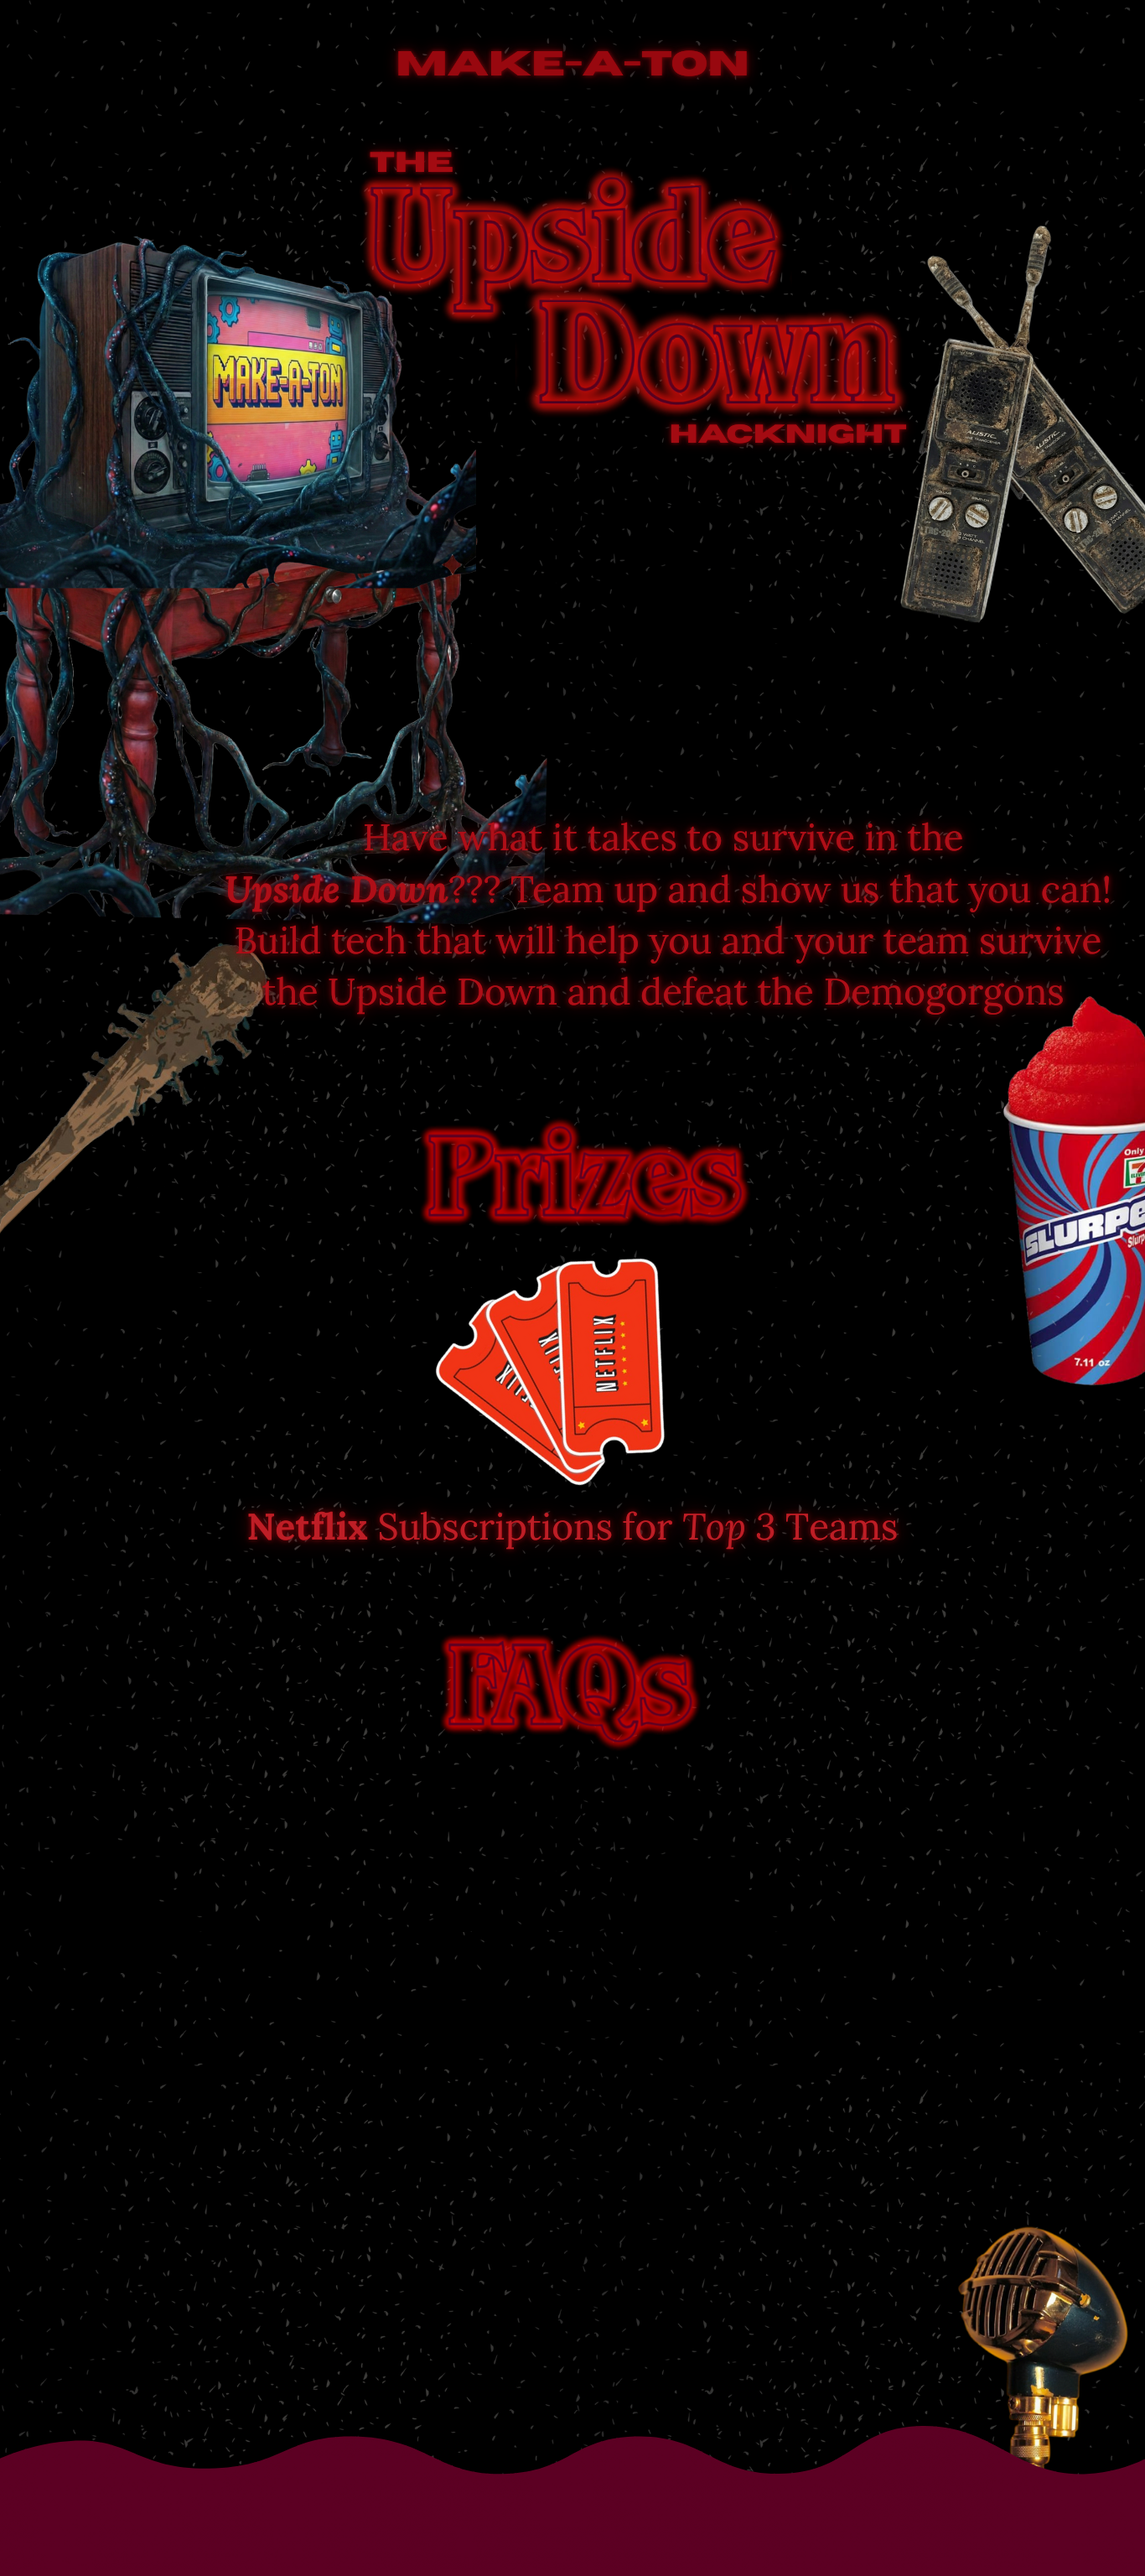
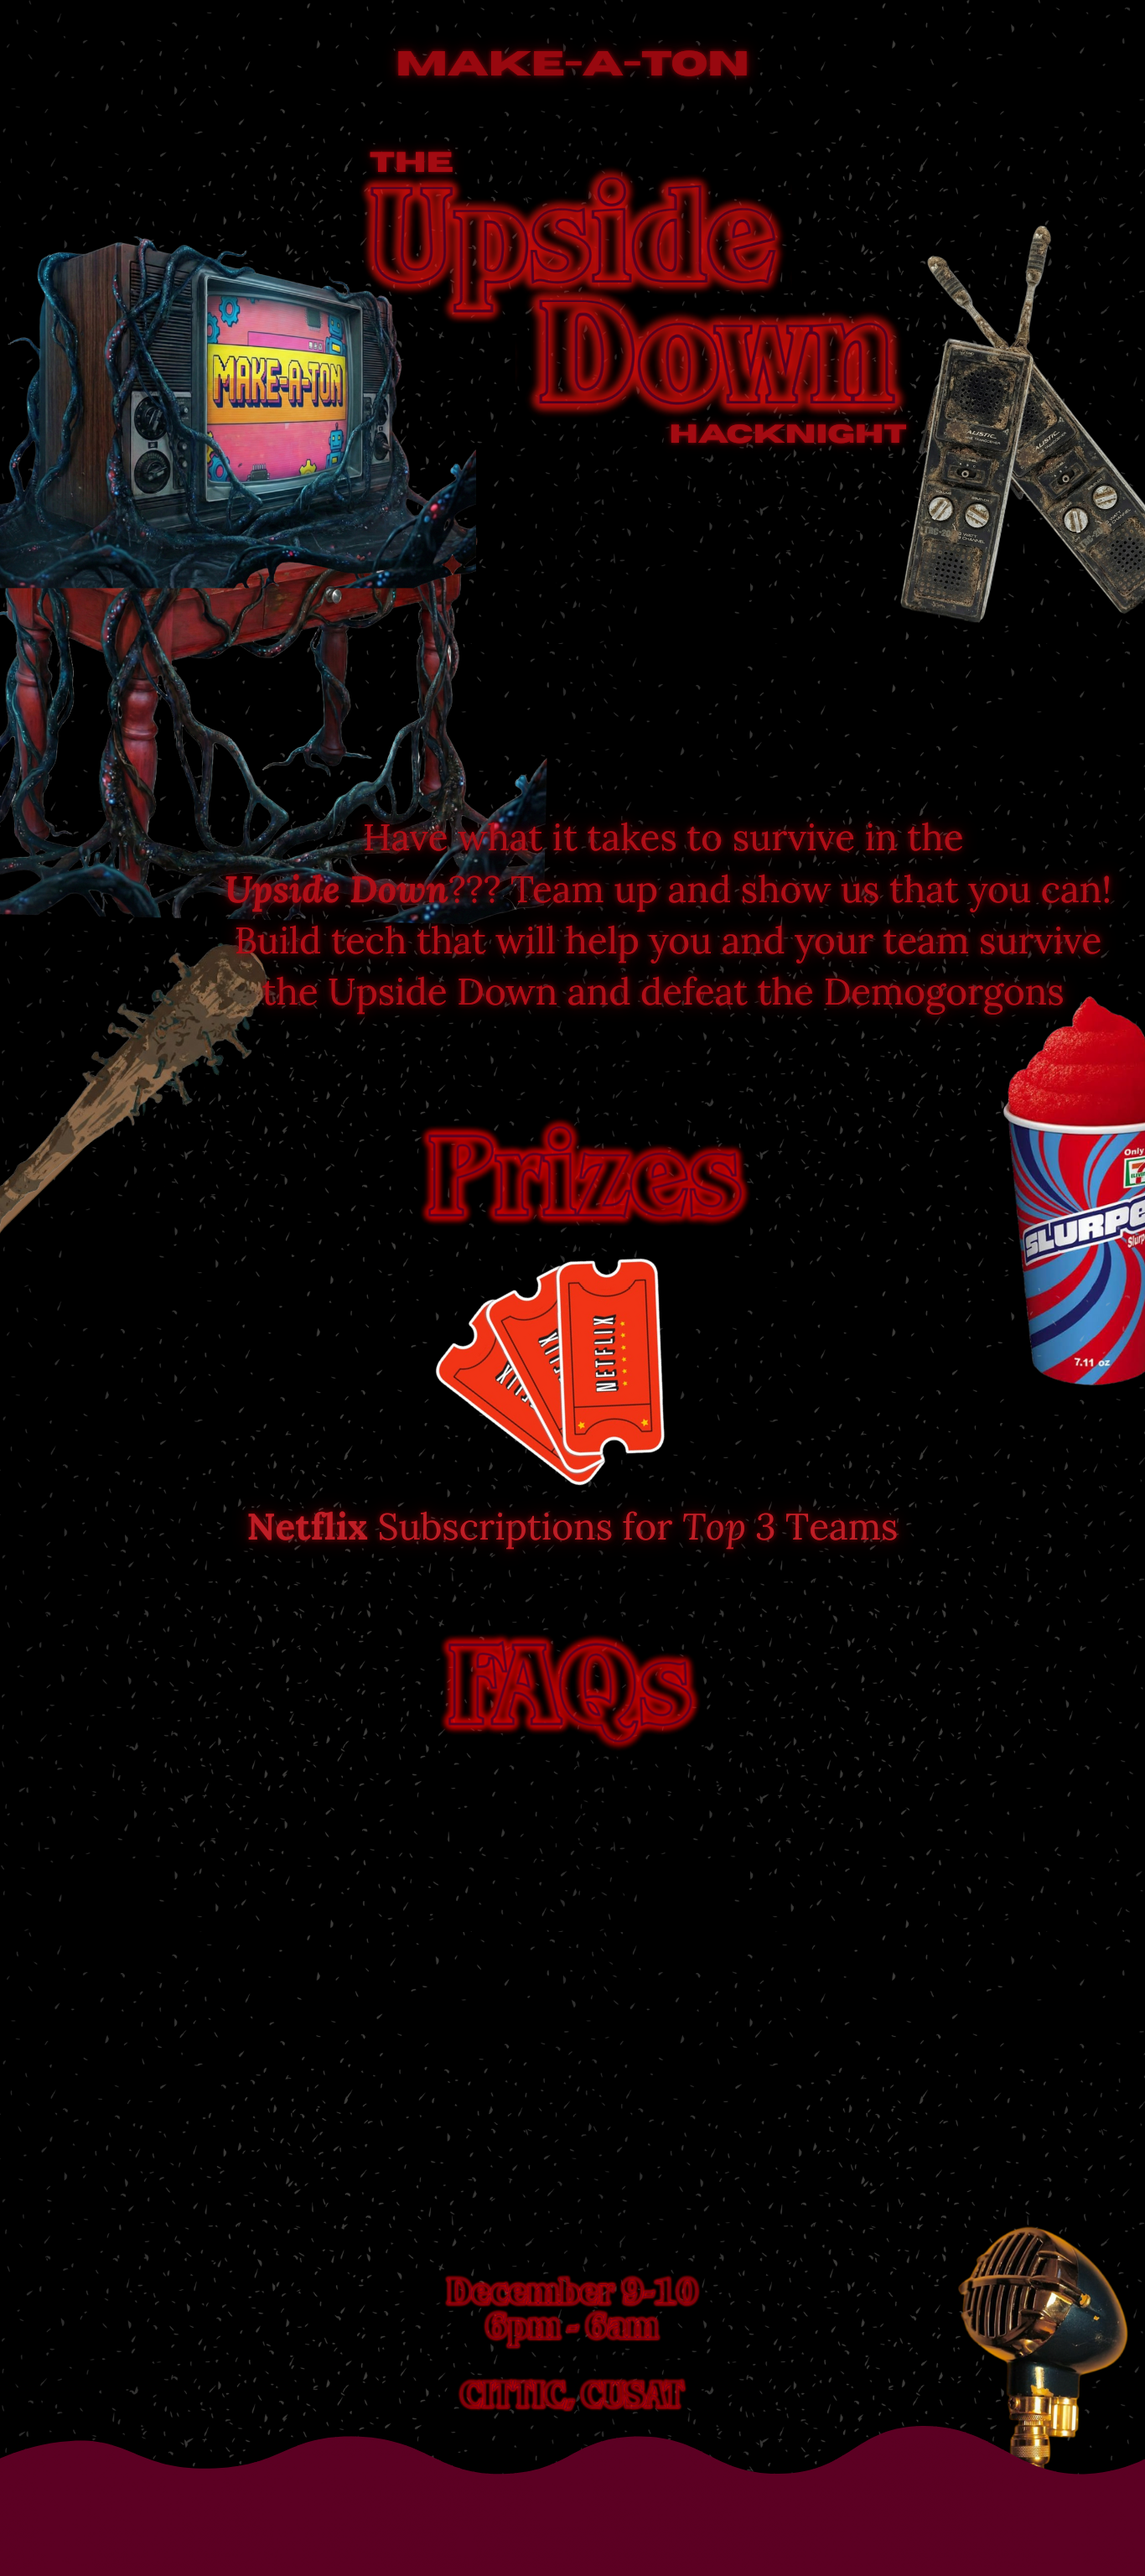
added date and venue

Changed region(s): [[0.369, 0.875, 0.6149, 0.9375]]

diff --git a/src/App.tsx b/src/App.tsx
@@ -104,7 +104,11 @@ function App() {
     if (accessCode === '6.62607004') {
       alert('Congratulations! You just saved the worlddd')
       closeDialog()
-    } else {
+    } else if (accessCode === '67'||'69') {
+      alert('Really?? Grow up already-')
+      closeDialog()
+    }
+    else {
       alert("Uh oh- , the world ended, we hope you're happy. hmph. You should've paid attention to the episode.")
       setAccessCode('')
     }
